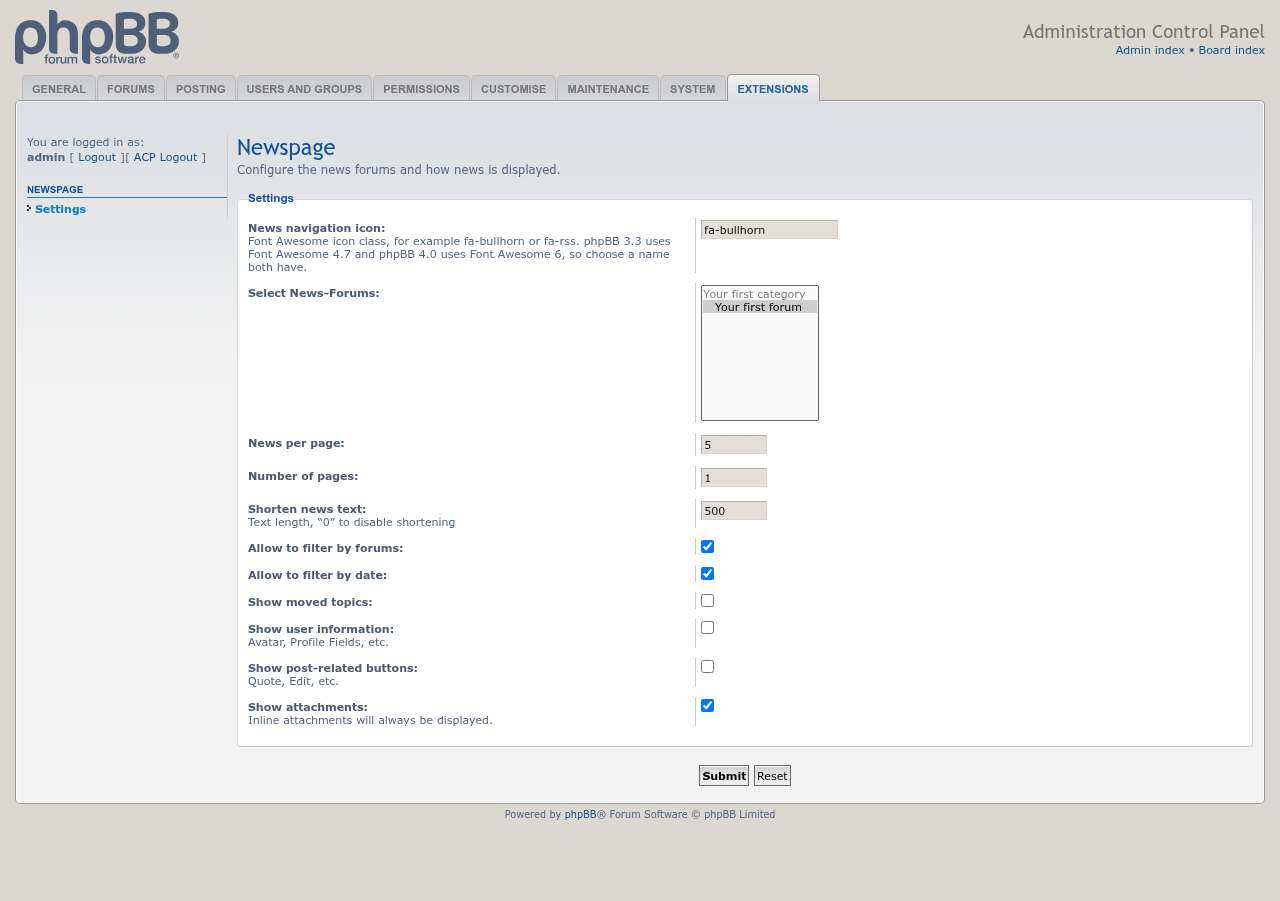
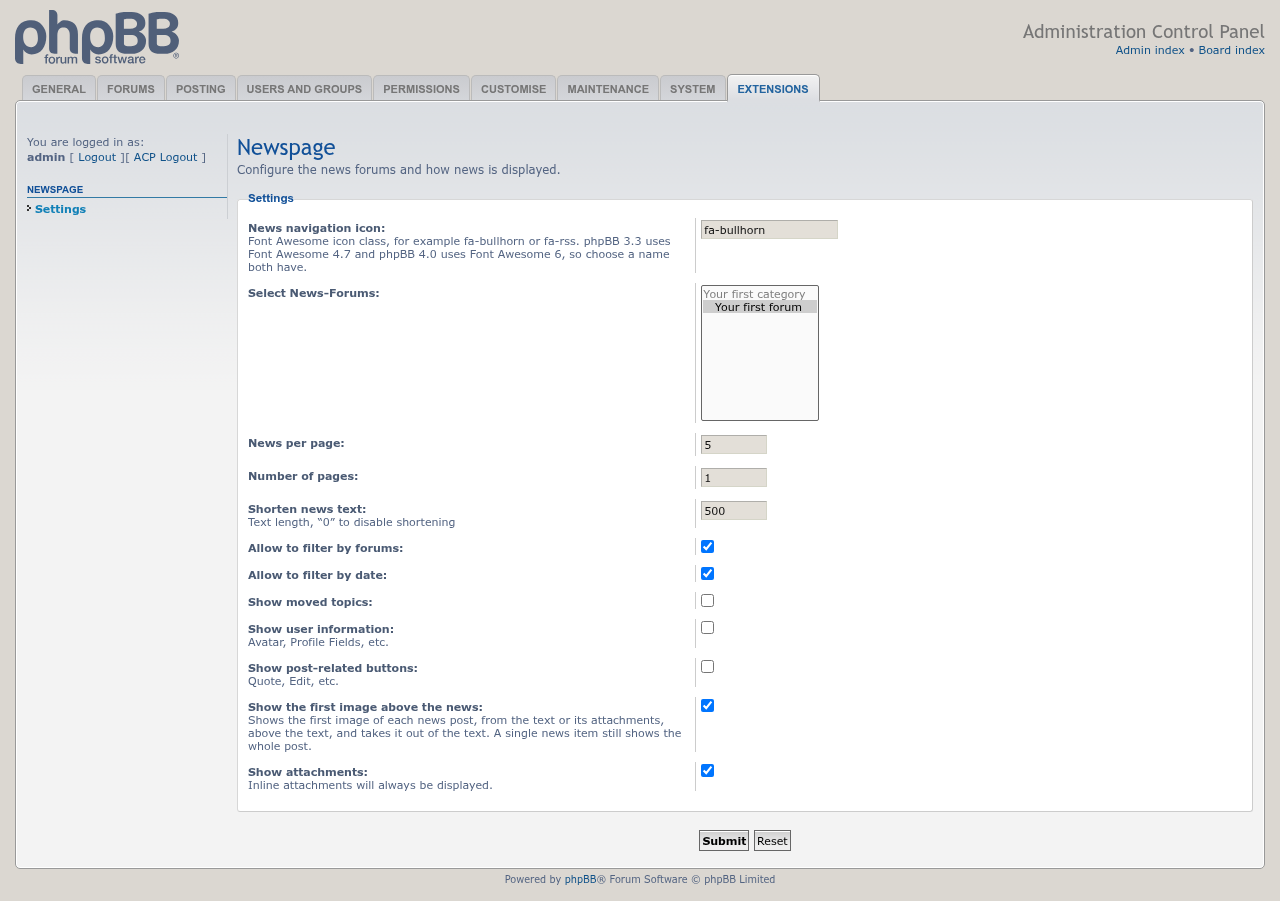
Retake the screenshots for the new layout and update the README
The gallery now shows the news page with the lead image, filtered by
forum, with poster information and buttons, shortened without the lead
image, without filters, a single news item, the ACP and the phone
layout. The README's feature list describes the new layout.

Changed region(s): [[0.0, 0.7769, 1.0, 0.9945]]

diff --git a/docs/images/screenshots/README.md b/docs/images/screenshots/README.md
@@ -1,10 +1,16 @@
 # NV Newspage screenshots
 
-Captured with [phpbb-release-tools](https://github.com/phpbbmodders/phpbb-release-tools)’ `phpbb-test-board/screenshots.py` on a disposable phpBB 3.3.19 board, with three example news topics. Poster information and the post buttons are turned off; the other settings are the defaults.
+Captured with [phpbb-release-tools](https://github.com/phpbbmodders/phpbb-release-tools)’ `phpbb-test-board/screenshots.py` on a disposable phpBB 3.3.19 board, with four example news topics. Unless a caption says otherwise, **Show the first image above the news** is on, and poster information and the post buttons are off; the other settings are the defaults.
 
 ## News page
 
 <a href="newspage-news.png"><img src="newspage-news.png" width="640" alt="News page"></a>
+
+## Filtered by forum
+
+The chosen forum shows in its filter button and under the bar, where it can be removed.
+
+<a href="newspage-news-filtered.png"><img src="newspage-news-filtered.png" width="640" alt="News page filtered by forum"></a>
 
 ## With poster information and post buttons
 
@@ -12,9 +18,9 @@ Captured with [phpbb-release-tools](https://github.com/phpbbmodders/phpbb-releas
 
 <a href="newspage-news-full.png"><img src="newspage-news-full.png" width="640" alt="News page with poster information and post buttons"></a>
 
-## Shortened news
+## Shortened news, no lead image
 
-**Shorten news text** set to 120 characters. Longer news ends with "…", and **Read full news** opens the whole post.
+**Shorten news text** set to 120 characters and **Show the first image above the news** off. Longer news ends with "…", and **Read more** opens the whole post.
 
 <a href="newspage-news-shortened.png"><img src="newspage-news-shortened.png" width="640" alt="News page with shortened news"></a>
 
@@ -25,6 +31,8 @@ Captured with [phpbb-release-tools](https://github.com/phpbbmodders/phpbb-releas
 <a href="newspage-news-no-filters.png"><img src="newspage-news-no-filters.png" width="640" alt="News page without the filters"></a>
 
 ## A single news item
+
+Seen by the admin, who can reply.
 
 <a href="newspage-single.png"><img src="newspage-single.png" width="640" alt="A single news item"></a>
 

diff --git a/README.md b/README.md
@@ -7,10 +7,12 @@ A news page that shows the latest topics from chosen forums, shortened to a set 
 ## Features
 
 - A **News** page at `/news`, linked from the board's navigation bar with an icon you choose.
-- Shows the first post of the newest topics in the forums you pick, with a set number of news per page and pages.
-- Shortens long news to a set number of characters, with a "Read full news" link. Formatting is kept and no tag is cut in half.
-- Visitors can filter the news by forum and by month, and open a single news item.
-- Optional poster information (avatar, rank, profile fields), post buttons, attachments and moved topics.
+- Shows the first post of the newest topics in the forums you pick, as news cards: title, a byline with author, date and forum, the text, and one line with "Read more", the comment count and "View topic".
+- Shortens long news to a set number of characters, with "Read more" only when the text was cut. Formatting is kept and no tag is cut in half.
+- Optionally shows each post's first image above its text, from the text or its attachments.
+- Visitors can filter the news by forum and by month; the active filters show under the filter bar and can be removed one at a time.
+- A single news item has its own page, with a link back to all news and "Reply" for readers who may reply.
+- Optional poster information (avatar, rank, post count, profile fields), post buttons, attachments and moved topics.
 - Shows in **Who is online** when someone is reading the news.
 - Settings under **ACP → Extensions → Newspage**.
 
